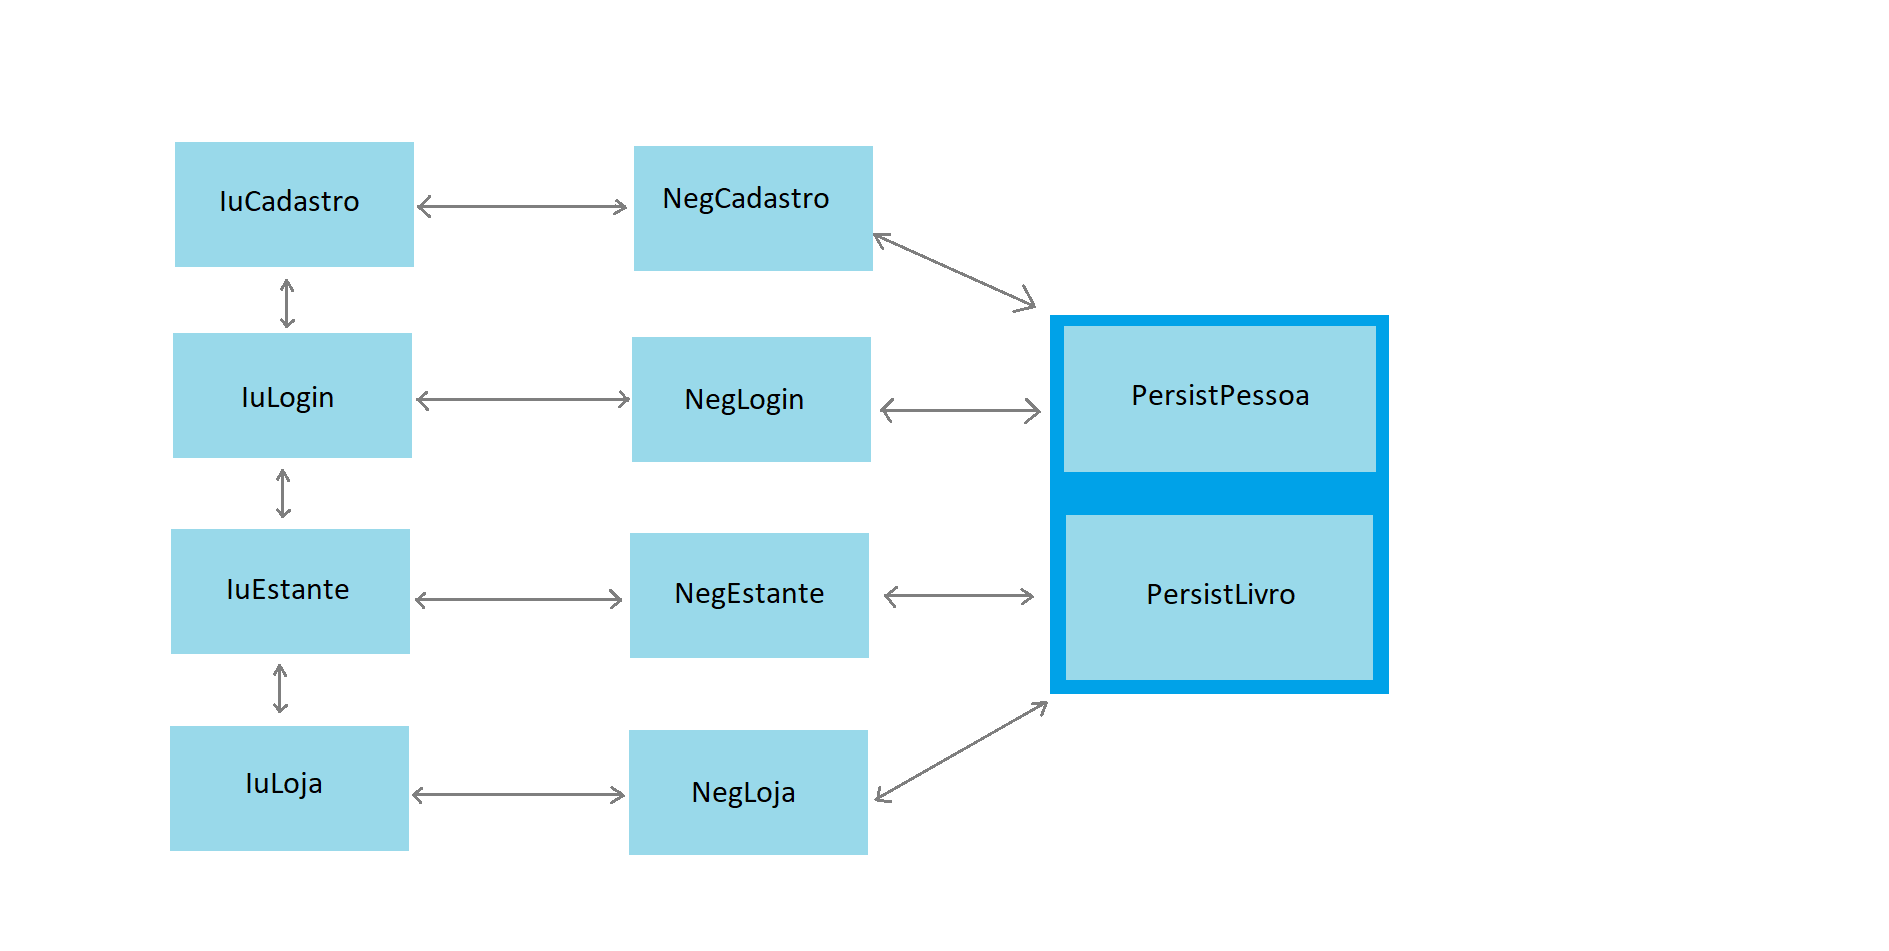
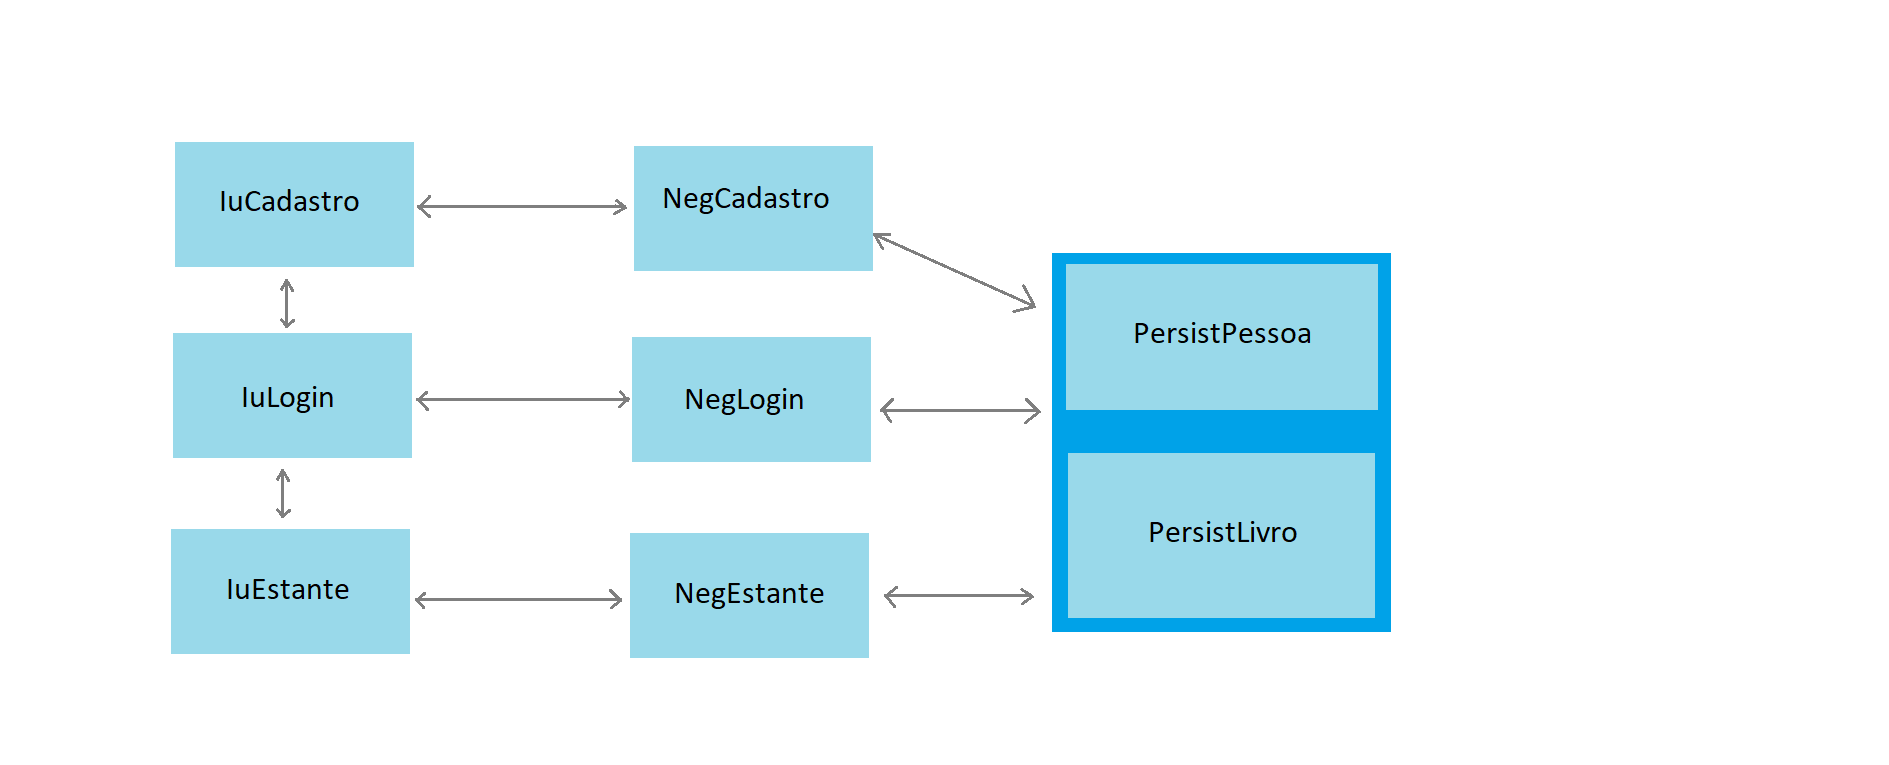
Testes Unitarios
Mais testes e documentacao
Atualizada a imagem da arquitetura

diff --git a/src/TesteEntidades.java b/src/TesteEntidades.java
@@ -1,0 +1,137 @@
+
+import java.util.ArrayList;
+import java.util.List;
+
+import org.junit.Assert;
+import org.junit.Test;
+
+public class TesteEntidades {
+	@Test
+	public void testeEstante(){
+		Estante e = new Estante();
+		Assert.assertNotNull(e.getLivros());
+		int r;
+		String s;
+		
+		Livro l = new Livro();
+		List<Livro> livros = new ArrayList<Livro>();
+		livros.add(l);
+		e = new Estante(livros);
+		Assert.assertEquals("Titulo generico", e.getLivros().get(0).getTitulo());
+		
+		l = new Livro("Titulo", "nome autor", "dtpublicacao", "cod", "genero", 0, new ArrayList<String>());
+		e.adicionaLivro(l);
+		Assert.assertEquals("Titulo", e.getLivros().get(1).getTitulo());
+		
+		l = new Livro("Titulo2", "nome autor2", "dtpublicacao2", "cod2", "genero2", 20, new ArrayList<String>());
+		livros.add(l);
+		e.setLivros(livros);
+		Assert.assertEquals("Titulo2", e.getLivros().get(2).getTitulo());
+		
+		l = e.buscaLivro("Titulo generico");
+		Assert.assertEquals("000000", l.getCod());
+		
+		l = e.buscaLivro("Titulo inexistente");
+		Assert.assertNull(l);
+		
+		l = e.buscaLivro("Titulo generico");
+		r = e.removeLivro(l);
+		Assert.assertEquals(0, r);
+		
+		r = e.removeLivro(l);
+		Assert.assertEquals(1, r);
+		
+		e.adicionaLivro(l);
+		
+		s = e.camposEmStr();
+		Assert.assertEquals("cod;Titulo;nome autor;dtpublicacao;genero;0cod2;Titulo2;nome autor2;dtpublicacao2;genero2;20000000;Titulo generico;Autor generico;00/00/0000;Genero generico;0", s);
+		
+		s = e.codEmStr();
+		Assert.assertEquals("cod;cod2;000000;", s);
+		
+	}
+	
+	@Test
+	public void testeLivro(){
+		String s;
+		Livro l = new Livro();
+		Assert.assertEquals(l.getTitulo(), "Titulo generico");
+		
+		l = new Livro("Titulo", "nome autor", "dtpublicacao", "cod", "genero", 0, null);
+		Assert.assertEquals(l.getTitulo(), "Titulo");
+		Assert.assertEquals(l.getNomeAutor(), "nome autor");
+		Assert.assertEquals(l.getDtPublicacao(), "dtpublicacao");
+		Assert.assertEquals(l.getCod(), "cod");
+		Assert.assertEquals(l.getGenero(), "genero");
+		Assert.assertEquals(l.getQuantidade(), 0);
+		Assert.assertEquals(l.getResenhas(), null);
+		
+		l.setTitulo("Titulo2");
+		Assert.assertEquals(l.getTitulo(), "Titulo2");
+		
+		l.setNomeAutor("Nome2");
+		Assert.assertEquals(l.getNomeAutor(), "Nome2");
+		
+		l.setDtPublicacao("dt2");
+		Assert.assertEquals(l.getDtPublicacao(), "dt2");
+		
+		l.setCod("cod2");
+		Assert.assertEquals(l.getCod(), "cod2");
+		
+		l.setGenero("genero2");
+		Assert.assertEquals(l.getGenero(), "genero2");
+		
+		l.setQuantidade(1);
+		Assert.assertEquals(l.getQuantidade(), 1);
+		
+		List<String> resenhas = new ArrayList<String>();
+		resenhas.add("Resenha1");
+		l.setResenhas(resenhas);
+		List<String> teste = l.getResenhas();
+		Assert.assertEquals(l.getResenhas().get(0), "Resenha1");
+		
+		s = l.camposEmStr();
+		Assert.assertEquals(s, "cod2;Titulo2;Nome2;dt2;genero2;1;Resenha1");
+	}
+	
+	@Test
+	public void testePessoa(){
+		Pessoa p = new Pessoa();
+		Assert.assertEquals(p.getNome(), "Nome generico");
+		Estante e = new Estante();
+		String s;
+		
+		p = new Pessoa("nome", "apelido", "senha", 1, e, "telefone");
+		Assert.assertEquals(p.getNome(), "nome");
+		Assert.assertEquals(p.getApelido(), "apelido");
+		Assert.assertEquals(p.getSenha(), "senha");
+		Assert.assertEquals(p.getTipo(), 1);
+		Assert.assertNotNull(p.getEstante());
+		Assert.assertEquals(p.getTelefone(), "telefone");
+	
+		p.setNome("nome2");
+		Assert.assertEquals(p.getNome(), "nome2");
+		
+		p.setApelido("apelido2");
+		Assert.assertEquals(p.getApelido(), "apelido2");
+		
+		p.setSenha("senha2");
+		Assert.assertEquals(p.getSenha(), "senha2");
+		
+		p.setTelefone("telefone2");
+		Assert.assertEquals(p.getTelefone(), "telefone2");
+		
+		p.setTipo(0);
+		Assert.assertEquals(p.getTipo(), 0);
+		
+		Livro l = new Livro();
+		e.adicionaLivro(l);
+		p.setEstante(e);
+		Assert.assertEquals(1, p.getEstante().getLivros().size());
+		
+		s = p.camposEmStr();
+		Assert.assertEquals("nome2;apelido2;senha2;0;telefone2;000000;", s);
+		
+		
+	}
+}
